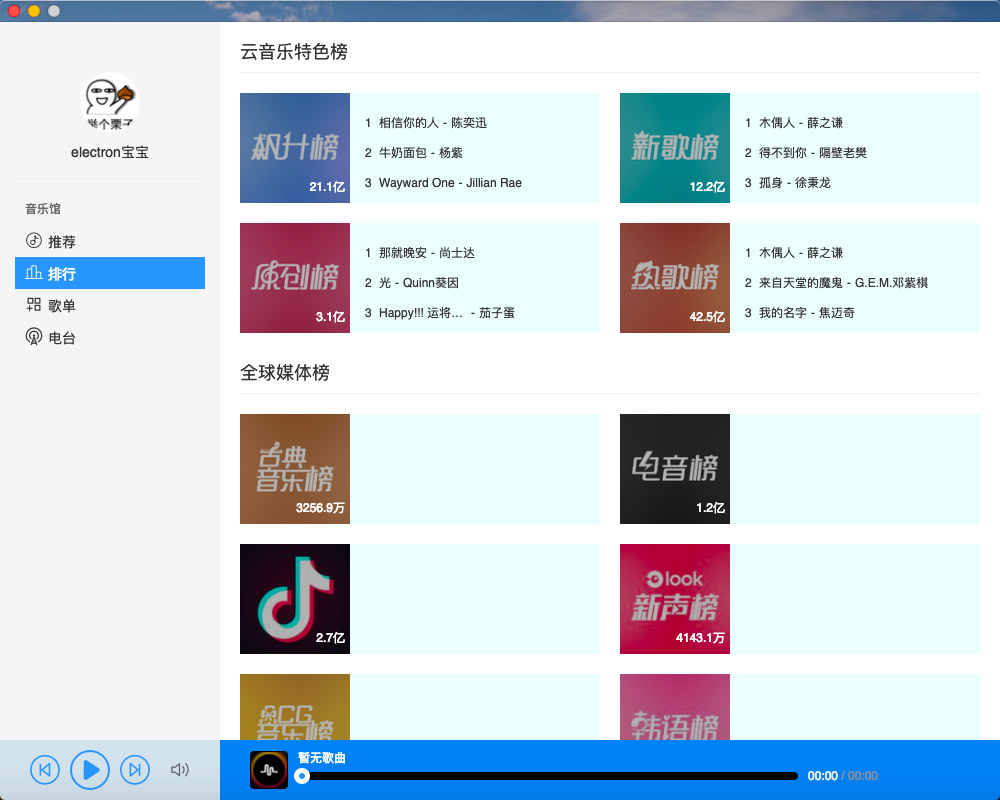
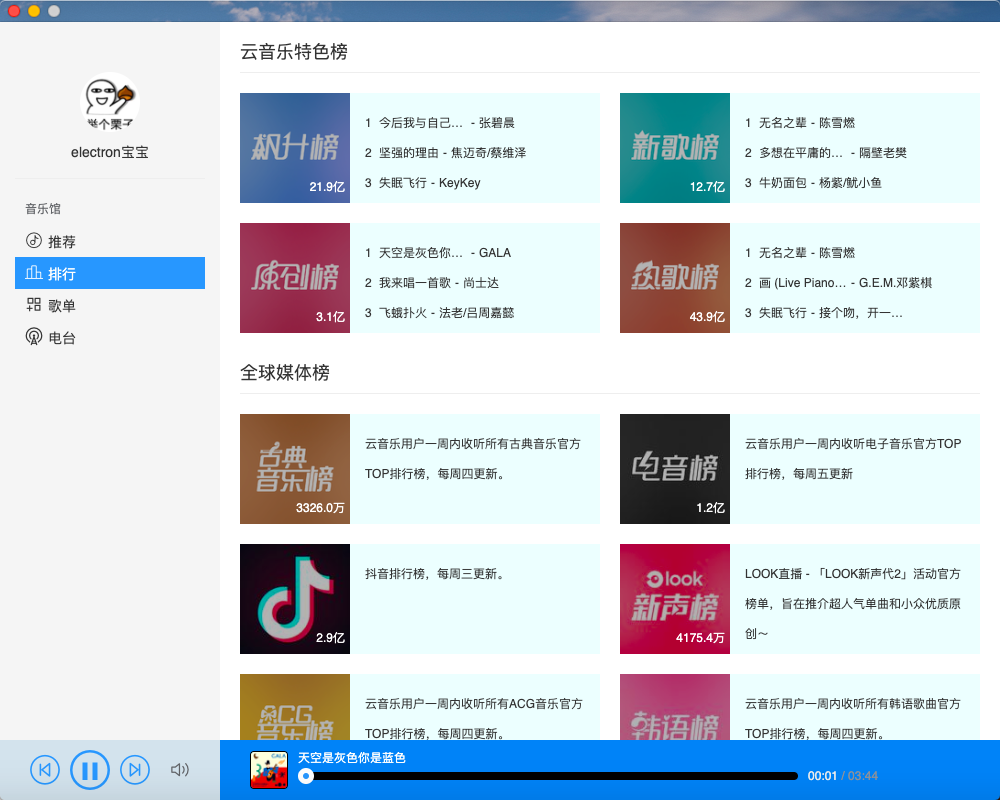
fix  表格可以添加事件 add 歌单详情页评论模块

diff --git a/src/views/playlist-detail/index.jsx b/src/views/playlist-detail/index.jsx
@@ -1,14 +1,17 @@
 /**
- * 歌单详情页
+ * @file 歌单详情页
+ * @author luyanhong
  */
 import React, { Component } from 'react';
 import { getPlaylistDetail } from 'api/playlist';
+import { getPlaylistComment } from 'api/comment';
 import ProgramHeader from 'coms/ProgramHeader';
 import LazyImage from 'coms/LazyImage';
 import BaseButton from 'coms/BaseButton';
 import { prettyDate } from 'utils/pretty-time';
 import ShowDesc from 'coms/ShowDesc';
 import BaseTable, { BaseTableColumn } from 'coms/BaseTable';
+import CommentList from 'coms/CommentList';
 import './playlist-detail.scss';
 class PlaylistDetail extends Component {
   constructor (props) {
@@ -16,8 +19,11 @@ class PlaylistDetail extends Component {
     this.state = {
       info: null
     };
+    this.onPlay = this.onPlay.bind(this);
+    this.playAll = this.playAll.bind(this);
   }
 
+  // 获取歌曲列表
   async componentDidMount () {
     const { id } = this.props.match.params;
     try {
@@ -32,8 +38,21 @@ class PlaylistDetail extends Component {
     }
   }
 
-  render () {
+  // 获取音乐资源并播放
+  onPlay (idx) {
     const { info } = this.state;
+    const list = [info.tracks[idx]];
+    this.props.setMusic && this.props.setMusic(list, info.tracks[idx].id);
+  }
+
+  // 播放全部
+  playAll () {
+    const { tracks, id } = this.state.info;
+    this.props.setMusic && this.props.setMusic(tracks, id);
+  }
+
+  render () {
+    const { info, comments } = this.state;
     return info && (
       <div className="playlistDetail">
         <header className="playlistDetail-header">
@@ -49,10 +68,10 @@ class PlaylistDetail extends Component {
               <span className="info-name">{info.creator.nickname}</span>
               <span>{prettyDate(info.createTime)} 创建</span>
             </div>
-            <div className="btn-box">
-              <BaseButton icon="play" type="primary">播放</BaseButton>
-              <BaseButton icon="comment">({info.commentCount})</BaseButton>
-            </div>
+            <ul className="btn-box">
+              <li><BaseButton icon="play" type="primary" onClick={this.playAll}>播放</BaseButton></li>
+              <li><BaseButton icon="comment">({info.commentCount})</BaseButton></li>
+            </ul>
             <dl className="playlistDetail-header-tags">
               <dt className="tag-title">标签：</dt>
               {info.tags.map((tag, index) => (
@@ -73,13 +92,21 @@ class PlaylistDetail extends Component {
             </span>
           </div>
           <BaseTable data={info.tracks} keyName="id" isIndex>
-            <BaseTableColumn width="30">
+            <BaseTableColumn width="30" onClick={this.onPlay}>
               <i className="playlistDetail-table-iconfont iconfont icon-play"></i>
             </BaseTableColumn>
             <BaseTableColumn prop="name" label="歌曲标题" />
             <BaseTableColumn prop="singers" label="歌手" />
             <BaseTableColumn prop="album" label="专辑" />
           </BaseTable>
+        </section>
+        <section className="playlistDetail-comments">
+          <div className="title">
+            <span className="title-txt">评论</span>
+            <i className="title-desc">共{info.commentCount}条评论</i>
+          </div>
+          <p>假装这里能输入评论</p>
+          <CommentList getUrl={getPlaylistComment} id={info.id} />
         </section>
       </div>
     );

diff --git a/src/components/BaseTable/BaseTableColumn.jsx b/src/components/BaseTable/BaseTableColumn.jsx
@@ -4,25 +4,37 @@
  * @param {String} label, 该列表格标题
  * @param {String} width, 该列表格宽度
  * @param {String} className, 该列样式类名
+ * @param {String} onClick, 点击回调事件, 参数是第几个数据索引
+ * @param {String} idx，是第几个数据
  * @author luyanhong 2019-07-10
  */
 import React from 'react';
 import PropTypes from 'prop-types';
 
 const BaseTableColumn = (props) => {
-  const { children, className } = props;
+  const {
+    children, className, onClick, idx
+  } = props;
+
+  const callback = () => {
+    onClick && onClick(idx);
+  };
   return (
-    <td className={`table-td ${className}`}>
+    <td className={`table-td ${className}`} onClick={callback}>
       <div className="table-td-content"><span>{children}</span></div>
     </td>
   );
 };
 BaseTableColumn.propTypes = {
   width: PropTypes.string,
-  className: PropTypes.string
+  className: PropTypes.string,
+  onClick: PropTypes.func,
+  idx: PropTypes.number
 };
 BaseTableColumn.defaultProps = {
   width: '',
-  className: ''
+  className: '',
+  onClick: undefined,
+  idx: 0
 };
 export default BaseTableColumn;

diff --git a/src/components/BaseTable/index.jsx b/src/components/BaseTable/index.jsx
@@ -18,12 +18,18 @@ const BaseTable = (props) => {
   const {
     data, keyName, children, isIndex
   } = props;
-  const column = (item) => (
+  const column = (item, idx) => (
     children.map((child, index) => {
-      const { prop } = child.props;
+      const { prop, onClick } = child.props;
       if (prop) {
         return (
-          <BaseTableColumn key={index}>{item[prop]}</BaseTableColumn>
+          <BaseTableColumn key={index} onClick={onClick} idx={idx}>{item[prop]}</BaseTableColumn>
+        );
+      }
+      // 有点击事件
+      if (onClick) {
+        return (
+          <BaseTableColumn key={index} idx={idx} onClick={onClick}>{child.props.children}</BaseTableColumn>
         );
       }
       return (child);
@@ -48,7 +54,7 @@ const BaseTable = (props) => {
         {data.map((item, index) => (
           <tr key={item[keyName]} className="table-tr">
             {isIndex && <BaseTableColumn key={index} className="table-td-index">{index + 1}</BaseTableColumn>}
-            {column(item)}
+            {column(item, index)}
           </tr>
         ))}
       </tbody>

diff --git a/src/api/home.js b/src/api/home.js
@@ -3,7 +3,8 @@ const required = () => {
   throw Error('Missing parameter!');
 };
 export const getPersonalized = () => request.get('/personalized');
-export const getMusic = (id = required()) => request.get(`/music/url?id=${id}`);
+// export const getMusic = (id = required()) => request.get(`/music/url?id=${id}`);
+export const getMusic = (id = required()) => request.get(`/song/url?id=${id}`);
 export const getPlaylistDetail = (id = required()) => request.get(`/playlist/detail?id=${id}`);
 // 新碟上架
 export const getPersonalizedNew = (limit = 50) => request.get(`/top/album?limit=${limit}`);

diff --git a/src/views/playlist-detail/playlist-detail.scss b/src/views/playlist-detail/playlist-detail.scss
@@ -21,6 +21,12 @@
     }
     .btn-box {
       margin-top: 20px;
+      li {
+        display: inline-block;
+      }
+      & > li + li {
+        margin-left: 5px;
+      }
     }
     &-tags {
       margin-top: 10px;
@@ -48,5 +54,12 @@
   }
   &-table-iconfont {
     color: nth($fblack, 3);
+    cursor: pointer;
+    &:hover {
+      color: nth($fblack, 2);
+    }
+  }
+  &-comments {
+    margin-top: 40px;
   }
 }

diff --git a/src/views/top/index.jsx b/src/views/top/index.jsx
@@ -94,6 +94,9 @@ class Top extends Component {
                         <span className="top-list-info-name">{music.second}</span>
                       </li>
                     ))}
+                    {!item.tracks.length && (
+                      <span className="top-list-info-desc">{item.description}</span>
+                    )}
                   </ol>
                 </li>
               ))}

diff --git a/src/api/comment.js b/src/api/comment.js
@@ -19,3 +19,16 @@ export const getCommentDj = (options) => {
   });
 };
 export const getCommentPlaylist = 1;
+// 歌单评论
+export const getPlaylistComment = (options) => {
+  const { id, limit = 20, offset } = options;
+  const params = {
+    id,
+    limit,
+    offset
+  };
+  return request({
+    url: '/comment/playlist',
+    params
+  });
+};

diff --git a/src/routes.jsx b/src/routes.jsx
@@ -61,7 +61,7 @@ class RouteMap extends Component {
       loader: () => import(/* webpackChunkName: 'playlist-detail' */ '@/views/playlist-detail'),
       loading: Loading,
       render (loaded, rest) {
-        return <loaded.default {...rest} />;
+        return <loaded.default setMusic={self.setMusic} {...rest} />;
       }
     });
   }

diff --git a/src/components/PlayBox/index.jsx b/src/components/PlayBox/index.jsx
@@ -1,7 +1,7 @@
 /**
  * 音乐播放器模块, 默认音量长度为80
  * @param {Array}  playList, 歌曲列表
- * @param {Number} id, 歌单id
+ * @param {Number} id, 歌单id,主要用更新播放列表
  * @author luyanhong 2018-11-20
 */
 import React, { Component } from 'react';

diff --git a/src/views/top/top.scss b/src/views/top/top.scss
@@ -106,6 +106,9 @@
         @include hid;
         vertical-align: top;
       }
+      &-desc {
+        @include linehid(3);
+      }
     }
   }
 }

diff --git a/src/api/playlist.js b/src/api/playlist.js
@@ -71,3 +71,4 @@ export const getPlaylistDetail = async (id) => {
     console.log(err);
   }
 };
+

diff --git a/README.md b/README.md
@@ -8,11 +8,20 @@
 --电台分类(dj)  
 --单台节目(program)  
 
-## 推荐页
+## 推荐
 ![home](/img/home.png)
 ## 排行榜
 ![top](/img/top.png)
-
+## 歌单
+![playlist](/img/playlist.png)
+## 电台
+![dj](/img/dj.png)
+## 歌单详情页
+![playlist-detail](/img/playlist-detail.png)
+## 电台节目页
+![djRadio](/img/djRadio.png)
+## 节目详情页
+![program](/img/program.png)
   ## 启动步骤：  
   1、
     开发： npm run devServer  
